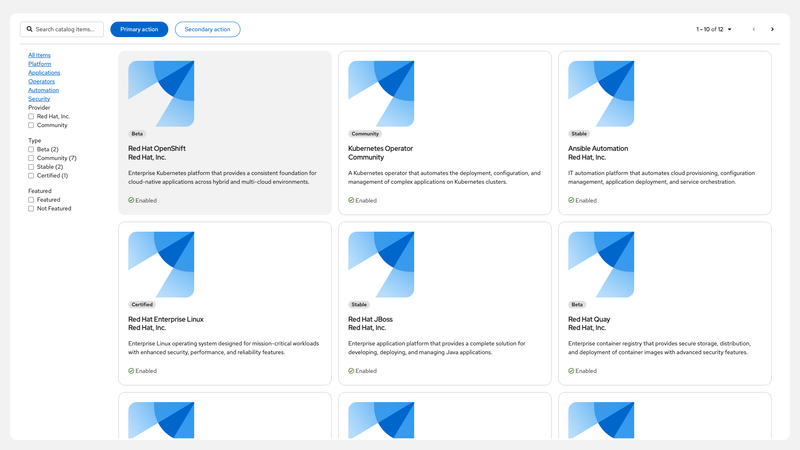
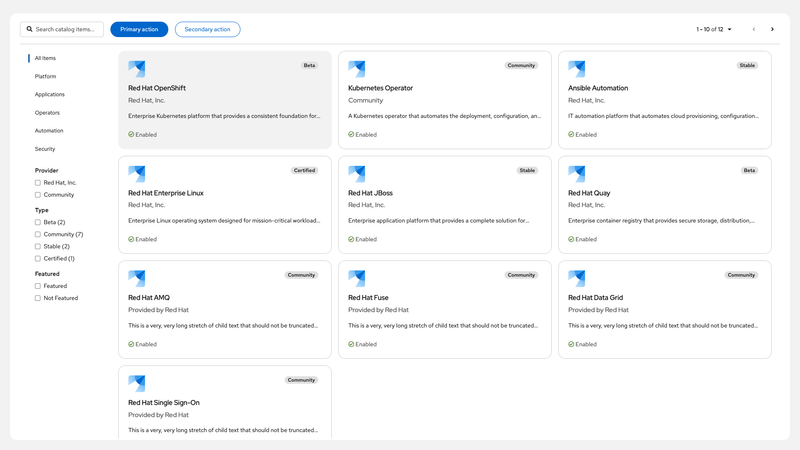
docs(catalog-view): update catalog view docs and add demo (#4853)
* docs(catalog-view): update catalog view docs and add demo

* add screenshot

diff --git a/packages/documentation-framework/scripts/webpack/webpack.client.config.js b/packages/documentation-framework/scripts/webpack/webpack.client.config.js
@@ -81,7 +81,20 @@ const clientConfig = async (env, argv) => {
       rules: [
         {
           test: /\.css$/,
-          exclude: reactCSSRegex,
+          exclude: (modulePath) => {
+            // Exclude react-*/dist CSS files, but allow catalog-view-extension
+            const pathStr = modulePath.toString();
+            if (reactCSSRegex.test(pathStr)) {
+              // Allow catalog-view-extension through (don't exclude it)
+              if (pathStr.includes('react-catalog-view-extension/dist/css/')) {
+                return false;
+              }
+              // Exclude other react-*/dist CSS files
+              return true;
+            }
+            // Don't exclude files that don't match reactCSSRegex
+            return false;
+          },
           use: [
             {
               loader: rspack.CssExtractRspackPlugin.loader
@@ -103,6 +116,7 @@ const clientConfig = async (env, argv) => {
         },
         {
           test: reactCSSRegex,
+          exclude: /react-catalog-view-extension\/dist\/css\/.*\.css$/,
           use: 'null-loader'
         },
       ]

diff --git a/packages/documentation-site/patternfly-docs/patternfly-docs.css.js b/packages/documentation-site/patternfly-docs/patternfly-docs.css.js
@@ -22,3 +22,5 @@ import '@patternfly/react-user-feedback/src/Feedback/Feedback.css';
 import '@patternfly/chatbot/dist/css/main.css';
 // Charts
 import '@patternfly/patternfly/patternfly-charts.css';
+// catalog view
+import '@patternfly/react-catalog-view-extension/dist/css/react-catalog-view-extension.css';
